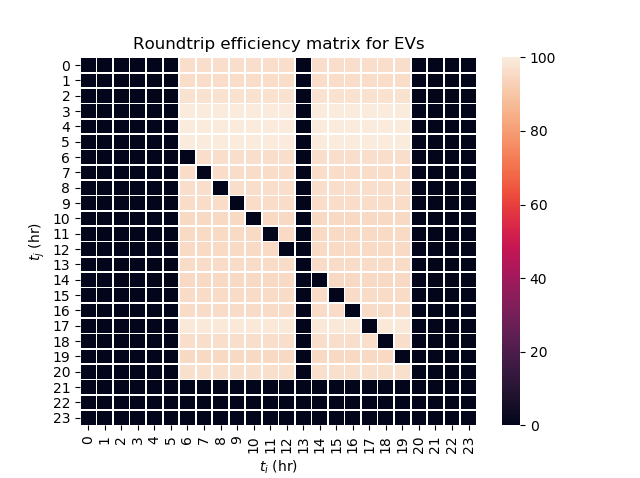
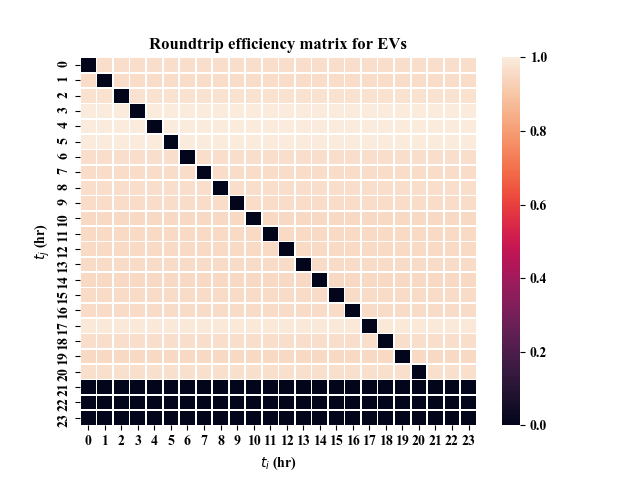
Changes made in roundtrip efficiency, capacity, and energy calculations

diff --git a/src/fleets/electric_vehicles_fleet/electric_vehicles_fleet.py b/src/fleets/electric_vehicles_fleet/electric_vehicles_fleet.py
@@ -327,10 +327,8 @@ class ElectricVehiclesFleet(FleetInterface):
             # power of demanded by each sub fleet
             power_subfleet = np.zeros([self.N_SubFleets,])
             power_dc_subfleet = np.zeros([self.N_SubFleets,])
-            power_dc_discharge = 0
-            power_ac_discharge = 0
             for subfleet in range(self.N_SubFleets):
-                
+
                 # Discharge while driving
                 if self.state_of_the_subfleet(t,subfleet) == 'driving':  
                     # Discharge rate for each sub fleet
@@ -341,9 +339,6 @@ class ElectricVehiclesFleet(FleetInterface):
                     power_subfleet[subfleet] = 0
                     # Power DC of each sub fleet to calculate charging efficiency
                     power_dc_subfleet[subfleet] = 0
-                    dc = self.df_VehicleModels['Wh_mi'][self.SubFleetId[subfleet]]*avg_speed*(3600/dt)*1000
-                    power_dc_discharge += dc
-                    power_ac_discharge += dc/1.0
                                       
                 # Certain amount of the vehicles of each sub fleet are charged at work: real data -> uncontrolled charging
                 elif self.state_of_the_subfleet(t,subfleet) == 'work':
@@ -548,7 +543,7 @@ class ElectricVehiclesFleet(FleetInterface):
             response.ts = ts
             response.P_togrid  = - power_demanded
             response.Q_togrid  = 0
-            response.P_service = - power_demanded + self.p_baseline
+            response.P_service = - (power_demanded - self.p_baseline)
             response.Q_service = 0
             response.P_base    = - self.p_baseline
             response.Q_base    = 0
@@ -557,12 +552,12 @@ class ElectricVehiclesFleet(FleetInterface):
             response.C = total_capacity
             
             response.P_togrid_min = - max_power_demanded
-            response.P_togrid_max = - power_uncontrolled
+            response.P_togrid_max = - self.p_baseline
             response.Q_togrid_max = 0
             response.Q_togrid_min = 0
             
-            response.P_service_min = - max_power_demanded + self.p_baseline
-            response.P_service_max = - power_uncontrolled + self.p_baseline
+            response.P_service_min = 0
+            response.P_service_max = - (max_power_demanded - self.p_baseline)
             response.Q_service_max = 0
             response.Q_service_min = 0
             
@@ -574,12 +569,9 @@ class ElectricVehiclesFleet(FleetInterface):
             if power_demanded == 0:
                 response.Eff_charge = 0
             else:
-                response.Eff_charge = (power_dc_demanded*dt)/(power_demanded*dt)*100       
-            if power_ac_discharge == 0:
-                response.Eff_discharge = 0
-            else:
-                response.Eff_discharge = (power_dc_discharge*dt)/(power_ac_discharge*dt)*100
-    
+                response.Eff_charge = (power_dc_demanded*dt)/(power_demanded*dt)*100                      
+            response.Eff_discharge = 1
+
             response.dT_hold_limit = None
             response.T_restore     = None
     

diff --git a/src/fleets/electric_vehicles_fleet/roundtrip_eff.py b/src/fleets/electric_vehicles_fleet/roundtrip_eff.py
@@ -11,10 +11,7 @@ sys.path.insert(0,dirname(dirname(dirname(abspath(__file__)))))
 from fleet_request import FleetRequest
 from grid_info import GridInfo
 
-
 from fleets.electric_vehicles_fleet.electric_vehicles_fleet import ElectricVehiclesFleet
-
-
 
 def main(ts, grid):
     
@@ -43,13 +40,23 @@ def main(ts, grid):
     eff_discharging = np.zeros([len(t), ])
     energy = np.zeros([len(t), ])
     capacity = np.zeros([len(t), ])
+    min_power_service = np.zeros([len(t), ])
+    max_power_service = np.zeros([len(t), ])
+    min_power_togrid = np.zeros([len(t), ])
+    max_power_togrid = np.zeros([len(t), ])
     for i in range(len(t)):  
         eff_charging[i] = FORECAST[i].Eff_charge
         eff_discharging[i] = FORECAST[i].Eff_discharge    
         energy[i] = FORECAST[i].E 
         capacity[i] = FORECAST[i].C 
+        min_power_service[i] = FORECAST[i].P_service_min 
+        max_power_service[i] = FORECAST[i].P_service_max
+        min_power_togrid[i] = FORECAST[i].P_togrid_min 
+        max_power_togrid[i] = FORECAST[i].P_togrid_max
         
-    return eff_charging, eff_discharging, energy, capacity
+    return (eff_charging, eff_discharging, energy, capacity,
+            min_power_service, max_power_service,
+            max_power_togrid, min_power_togrid)
     
 
 if __name__ == "__main__":
@@ -59,7 +66,7 @@ if __name__ == "__main__":
     ts = datetime(2018, 9, 20, 00, 0, 00, 000000)    
     grid = GridInfo('Grid_Info_DATA_2.csv')
     
-    e_in, e_out, e, c = main(ts, grid)
+    e_in, e_out, e, c, p_serv_min, p_serv_max, p_min, p_max = main(ts, grid)
     
     # Compute the roundtrip efficiency matrix
     rt = np.multiply.outer(e_in*0.01, e_out*0.01)*100
